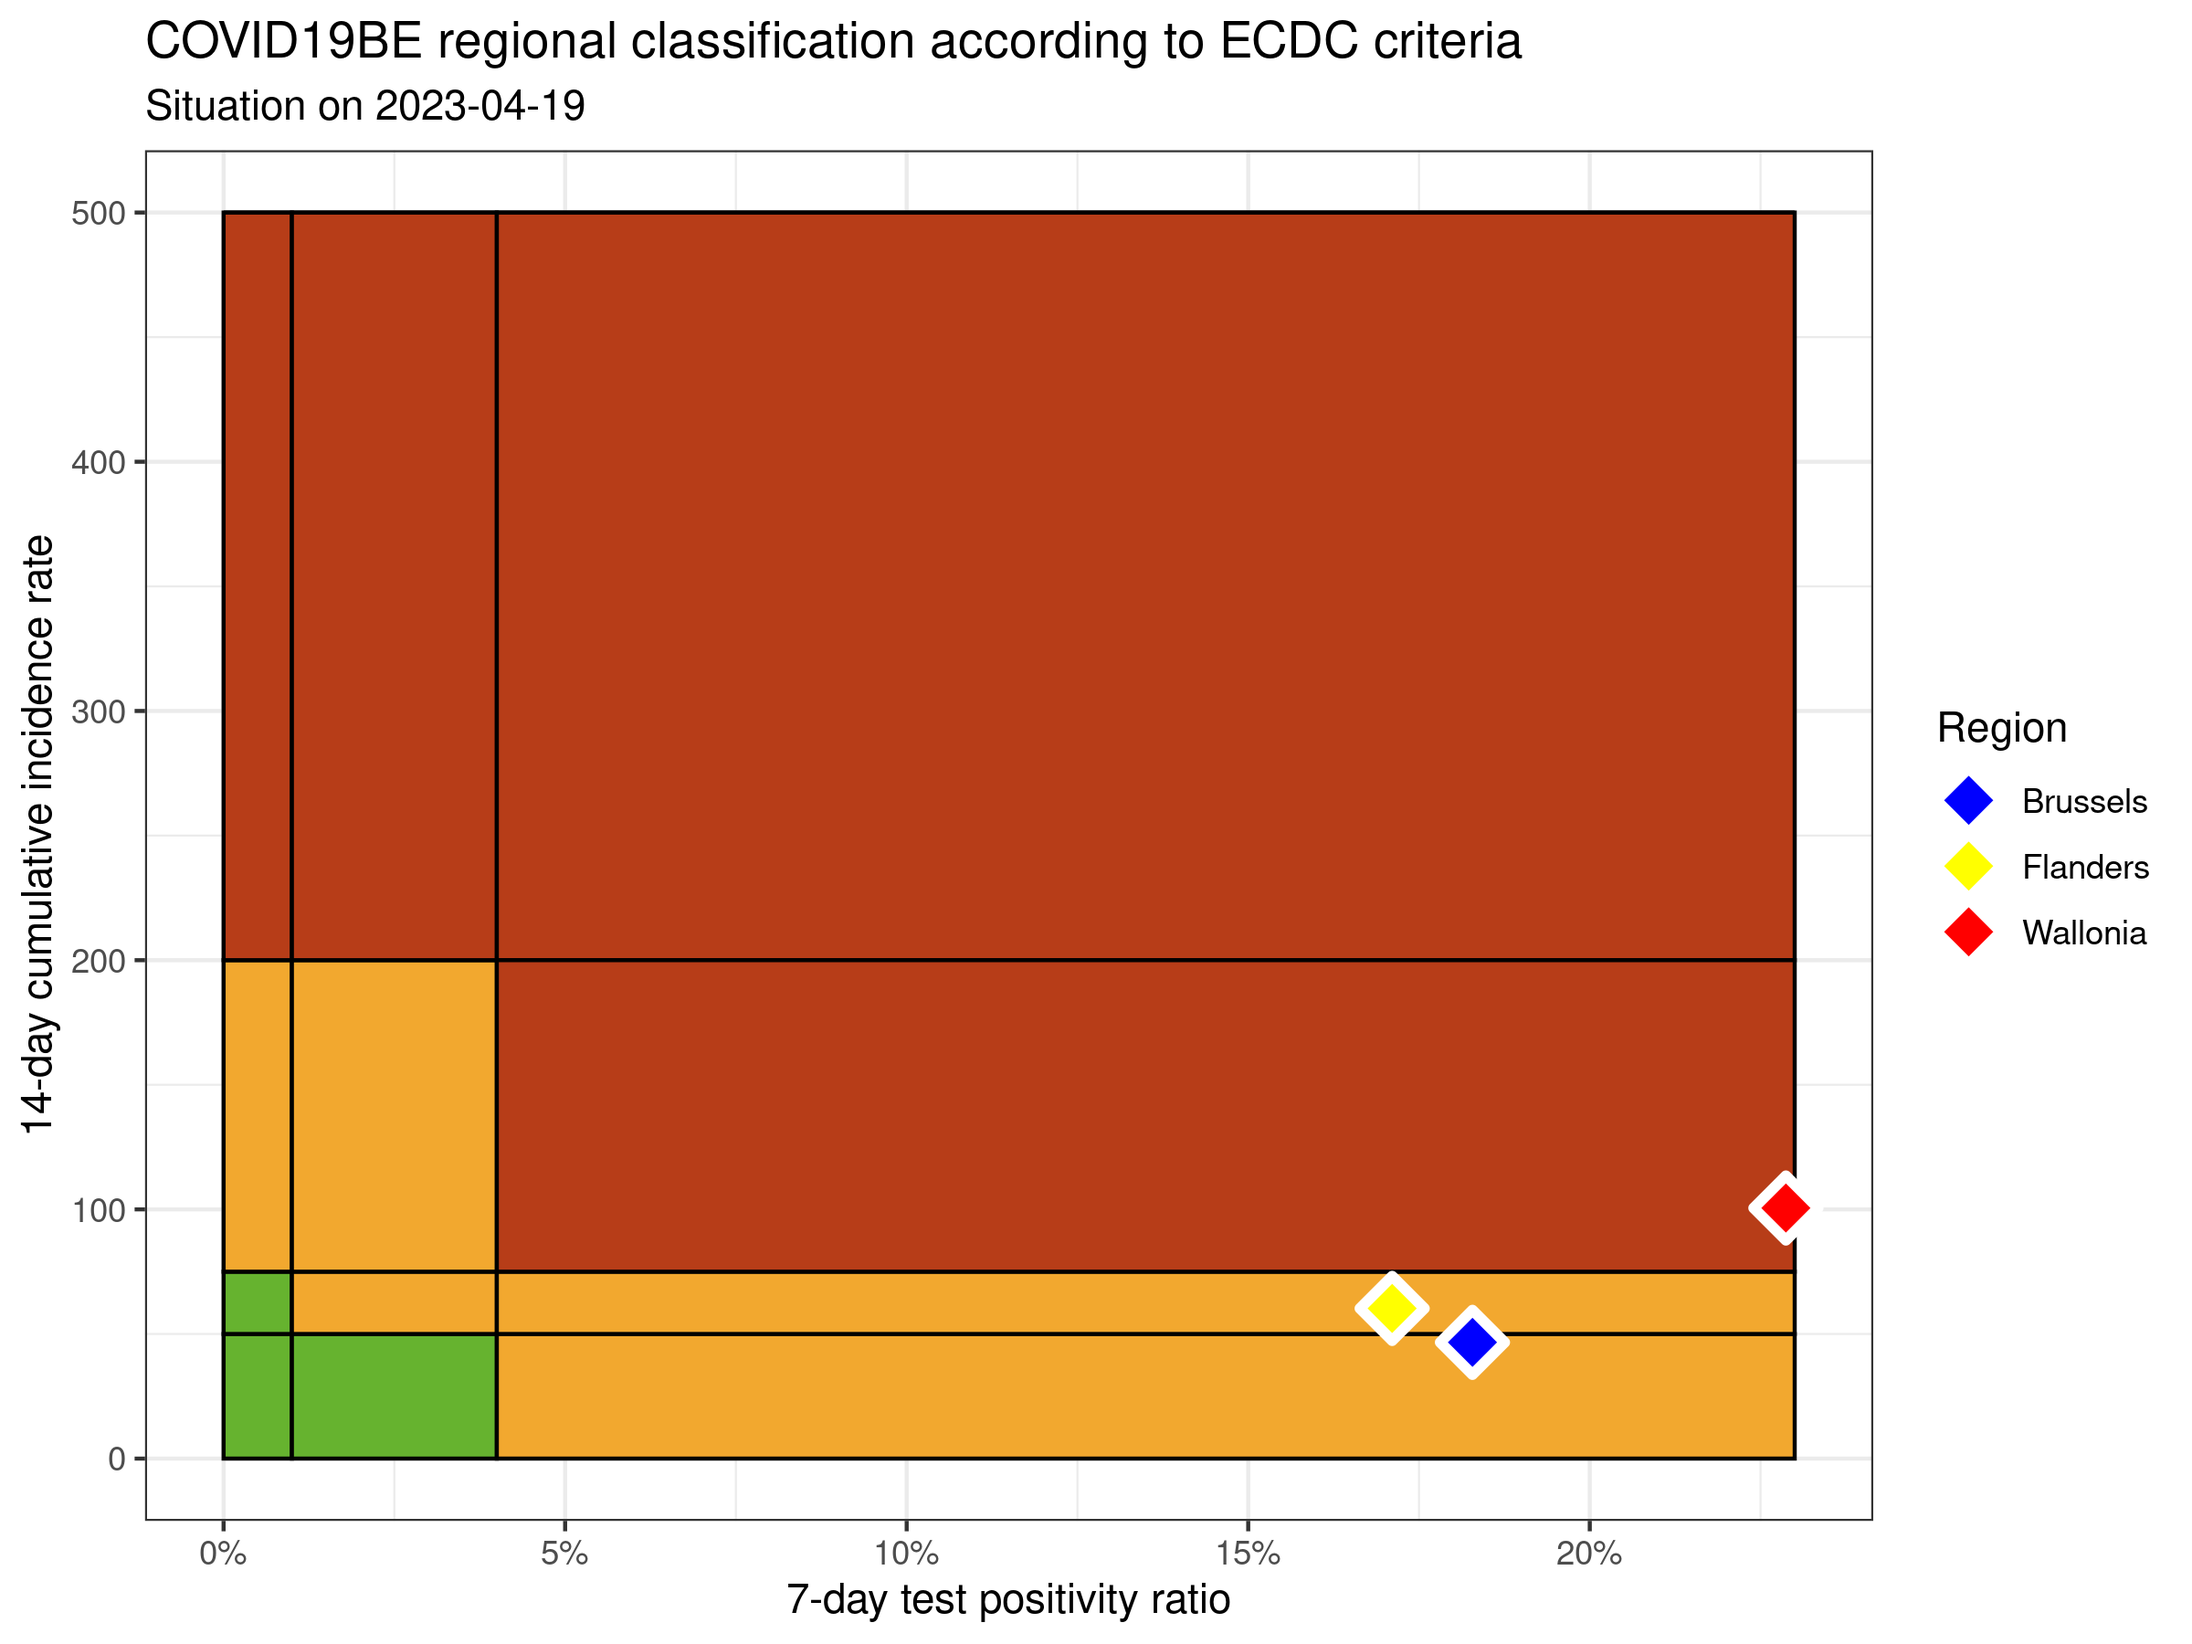
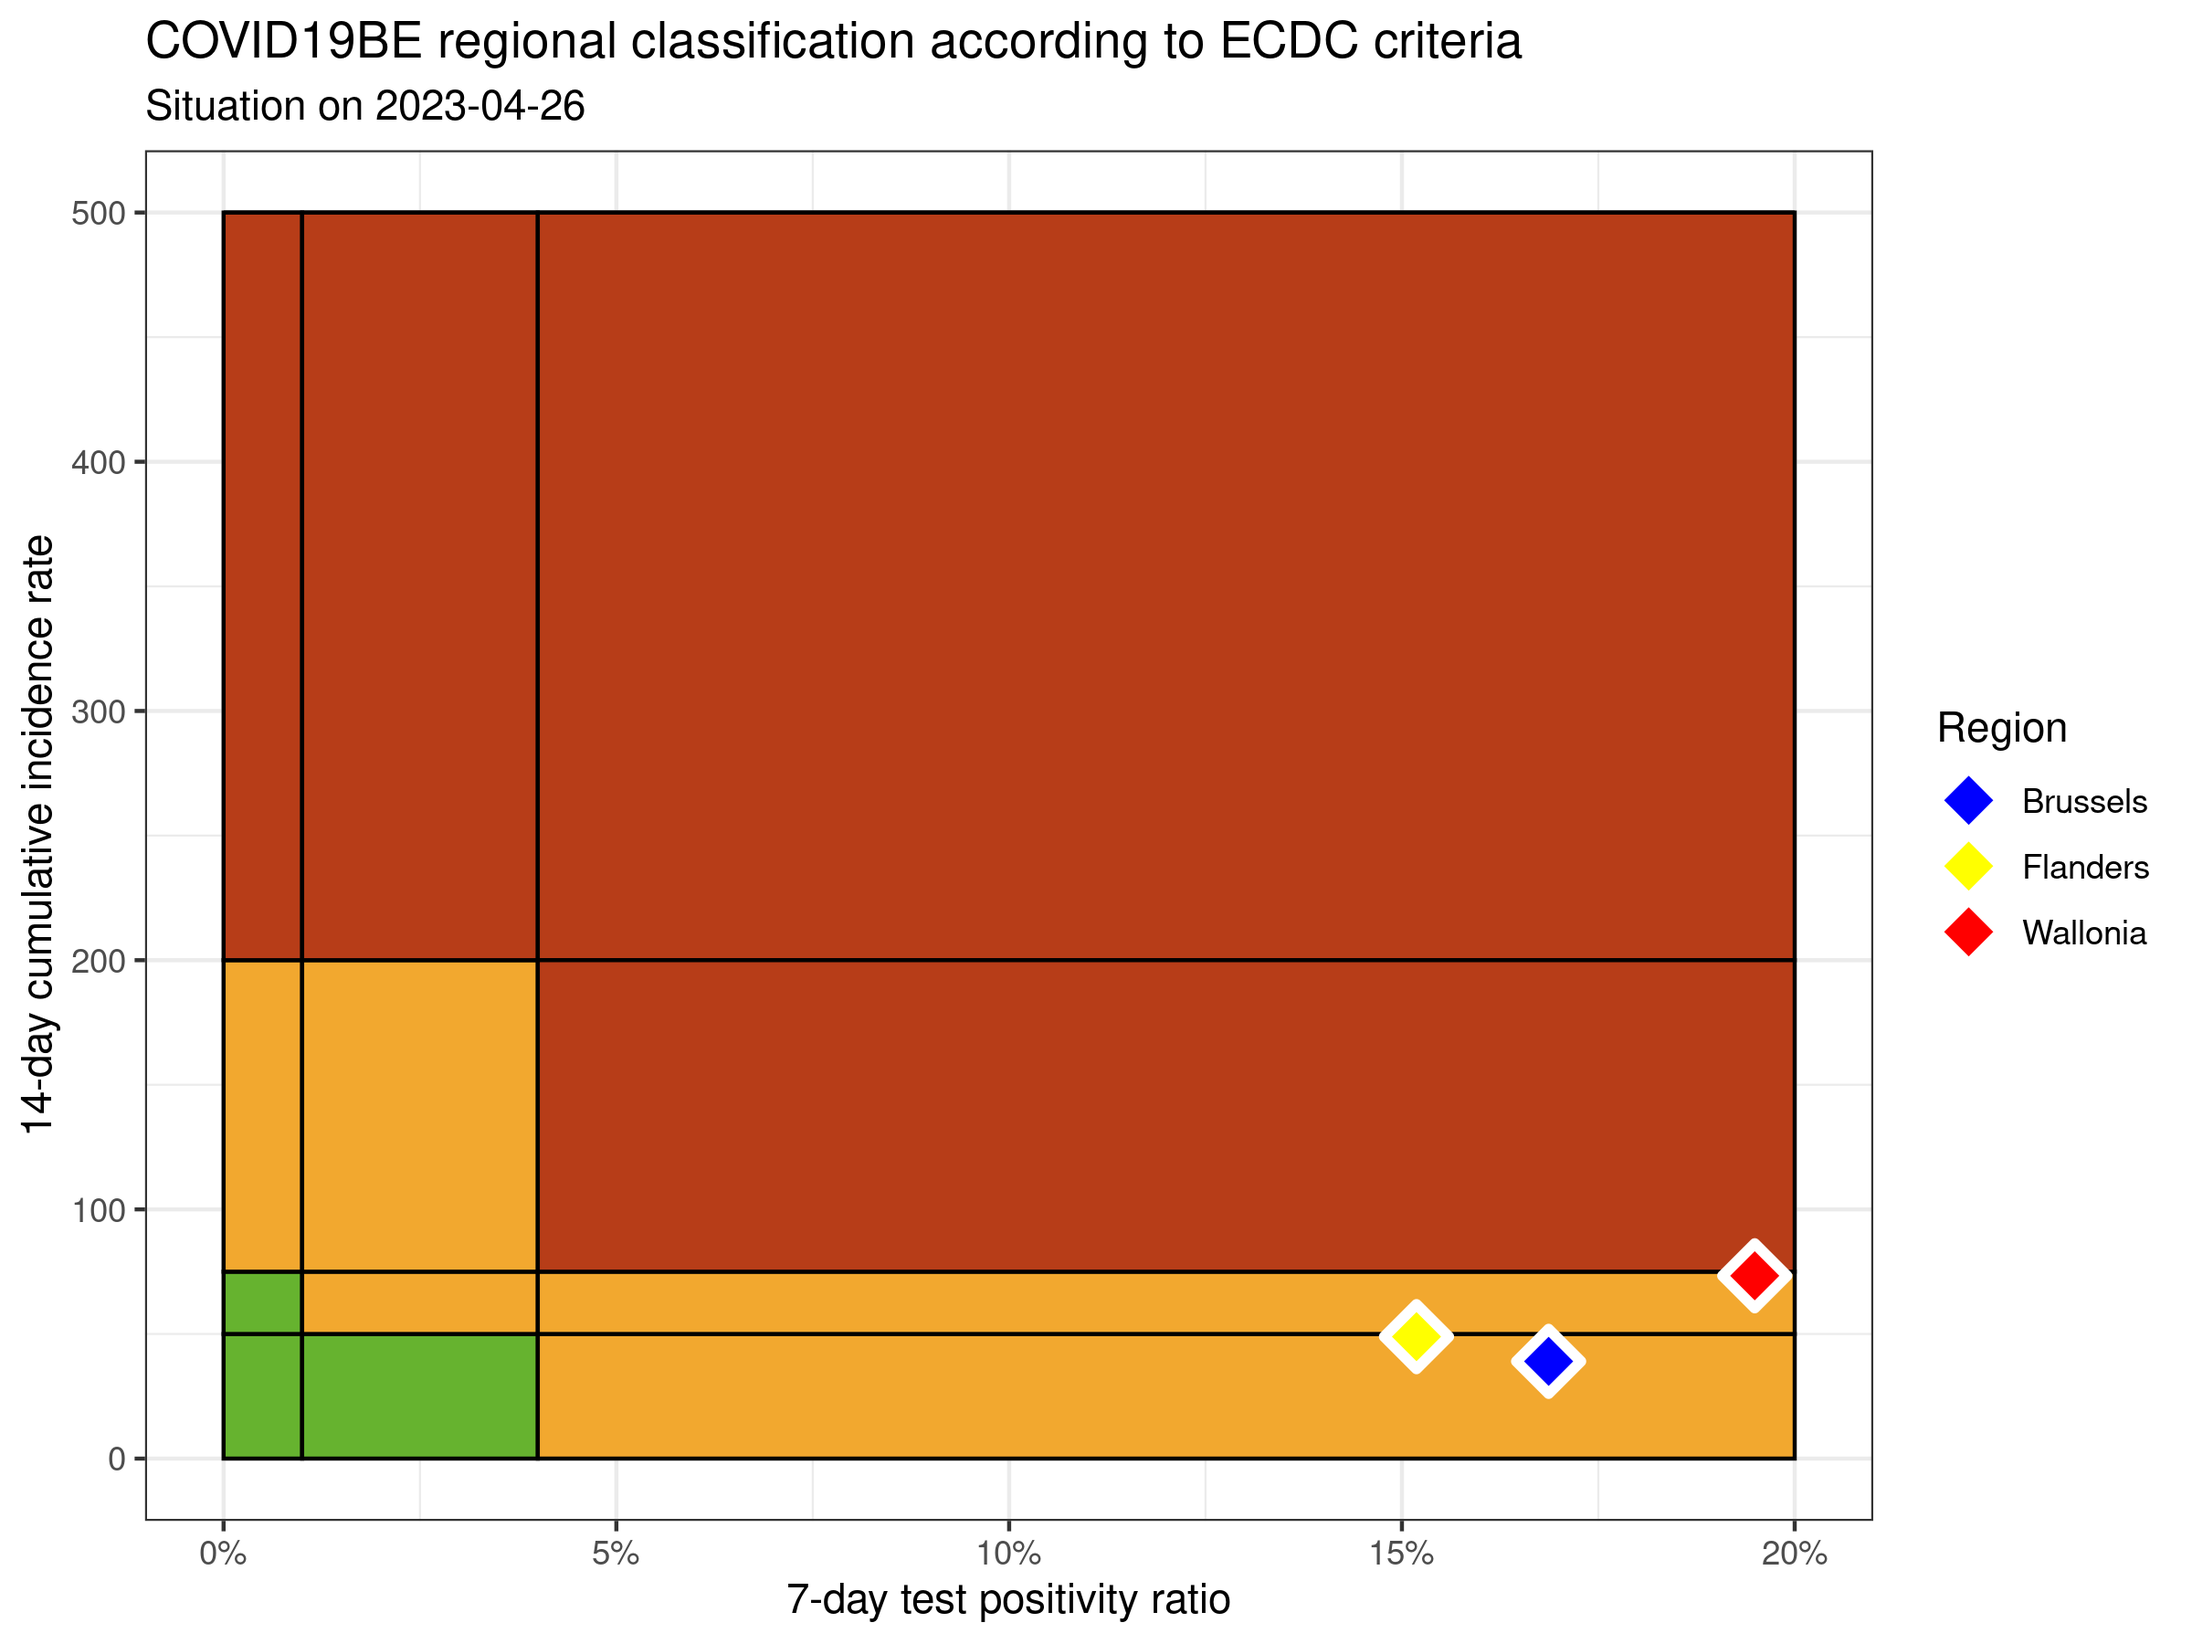
update situation

diff --git a/ecdc-trend/README.md b/ecdc-trend/README.md
@@ -11,9 +11,9 @@
 
 |          | INC14 | INC7 |  TST7 | TST\_POS7 | REGION   |     POP | INC14\_RT |       PR7 |          GR |
 | :------- | ----: | ---: | ----: | --------: | :------- | ------: | --------: | --------: | ----------: |
-| Brussels |   569 |  254 |  1712 |       313 | Brussels | 1219970 |  46.64049 | 0.1828271 | \-0.1936508 |
-| Flanders |  4009 | 1750 | 12410 |      2123 | Flanders | 6653062 |  60.25797 | 0.1710717 | \-0.2253209 |
-| Wallonia |  3668 | 1470 |  7363 |      1684 | Wallonia | 3648206 | 100.54257 | 0.2287111 | \-0.3312102 |
+| Brussels |   476 |  222 |  1660 |       280 | Brussels | 1219970 |  39.01735 | 0.1686747 | \-0.1259843 |
+| Flanders |  3255 | 1504 | 12130 |      1842 | Flanders | 6653062 |  48.92484 | 0.1518549 | \-0.1410623 |
+| Wallonia |  2676 | 1205 |  7352 |      1433 | Wallonia | 3648206 |  73.35112 | 0.1949129 | \-0.1808294 |
 
 ### Read more
 
